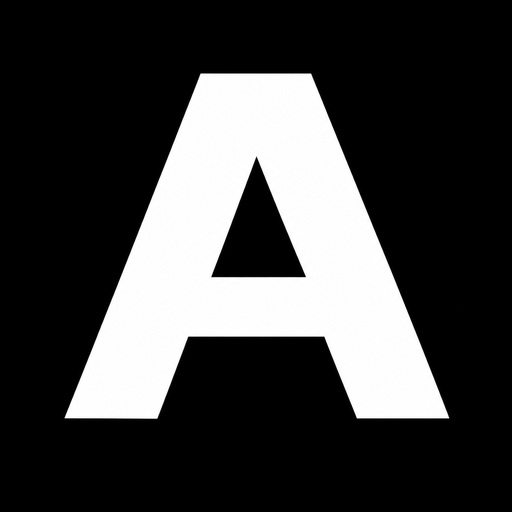
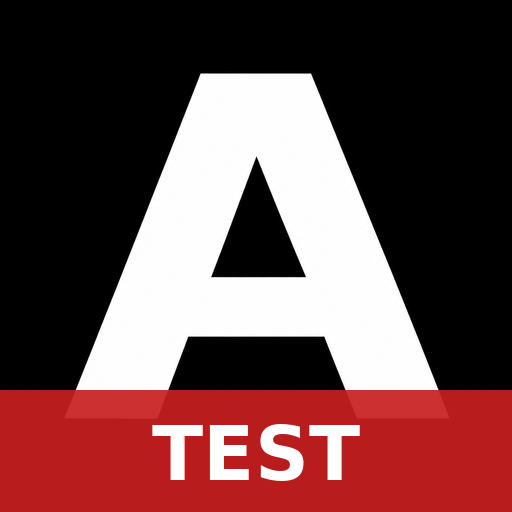
Add files via upload

Changed region(s): [[0.0, 0.75, 1.0, 1.0]]

diff --git a/index.html b/index.html
@@ -6,11 +6,11 @@
 <meta name="apple-mobile-web-app-capable" content="yes">
 <meta name="mobile-web-app-capable" content="yes">
 <meta name="apple-mobile-web-app-status-bar-style" content="black-translucent">
-<meta name="apple-mobile-web-app-title" content="Werkuren">
+<meta name="apple-mobile-web-app-title" content="Werkuren test">
 <meta name="theme-color" content="#17365d">
 <link rel="manifest" href="manifest.webmanifest">
 <link rel="apple-touch-icon" href="icon-180.png">
-<title>Werkuren</title>
+<title>Werkuren test</title>
 <style>
   :root {
     --navy: #17365d; --navy-2: #dbeafe; --green: #176b45; --bg: #f1f5f9; --card: #ffffff;
@@ -93,11 +93,17 @@ textarea{overflow:hidden}#f-clients{min-height:150px}#f-purch{min-height:84px}
 .chips button.fx{background:var(--navy);color:#fff;border-color:var(--navy)}
 .chips button.rc{border-color:var(--green);color:var(--green)}
 @media (prefers-color-scheme:dark){.chips button.fx{background:#2c5a94;border-color:#2c5a94}}
+.day.appendix{margin-left:22px;border-style:dashed}
+.day.appendix .name::before{content:"\21B3  ";color:var(--muted);font-weight:400}
+.cash{background:var(--bg);border-radius:10px;padding:12px 14px;margin-top:12px;line-height:1.45}
+.cash .main{display:flex;justify-content:space-between;align-items:baseline;gap:10px;font-size:16px;font-weight:700}
+.cash .main b{color:var(--green);font-size:21px}
+.cash .sub{font-size:13px;color:var(--muted);margin-top:3px}
 </style>
 </head>
 <body>
 <header>
-  <img src="icon-192.png" alt="" class="logo"><h1>Werkuren</h1>
+  <img src="icon-192.png" alt="" class="logo"><h1>Werkuren test</h1>
 </header>
 <main>
 
@@ -117,6 +123,7 @@ textarea{overflow:hidden}#f-clients{min-height:150px}#f-purch{min-height:84px}
       <div class="big" id="totHours">Totaal uren: 0,00</div>
       <div class="big pay" id="totPay"></div>
     </div>
+    <div id="totCash" class="cash" hidden></div>
     <div id="totMonth" style="margin-top:8px;font-weight:600"></div>
     <div class="hint" id="totBuy"></div>
     <div class="rate-row">
@@ -148,11 +155,28 @@ textarea{overflow:hidden}#f-clients{min-height:150px}#f-purch{min-height:84px}
 
 <script>
 "use strict";
-const STORE_KEY = "werkuren.v1";
-const DAY_NAMES = ["Maandag","Dinsdag","Woensdag","Donderdag","Vrijdag","Zaterdag"];
+const STORE_KEY = "werkuren-test.v1";   // eigen opslag: raakt de gewone Werkuren-app niet aan
+const DAY_NAMES = ["Maandag","Dinsdag","Woensdag","Donderdag","Vrijdag","Zaterdag","Zondag"];   // zondag = bijlage bij zaterdag
 
 /* ---------- opslag ---------- */
-let state = { records: {}, deleted: {}, rate: 13, lastExport: null };
+let state = { records: {}, deleted: {}, rate: 13, lastExport: null, deposits: {}, corrections: {} };
+/* Storting per maand en afstemmingen komen van de pc (die is de baas); de telefoon rekent er alleen mee. */
+function cleanDeposits(raw) {
+  const out = {};
+  if (raw && typeof raw === "object") Object.keys(raw).sort().forEach(k => {
+    const v = +raw[k];
+    if (/^\d{4}-(0[1-9]|1[0-2])$/.test(k) && isFinite(v) && v >= 0) out[k] = v;
+  });
+  return out;
+}
+function cleanCorrections(raw) {
+  const out = {};
+  if (raw && typeof raw === "object") Object.keys(raw).sort().forEach(k => {
+    const v = +raw[k];
+    if (/^\d{4}-\d{2}-\d{2}$/.test(k) && isFinite(v) && Math.abs(v) <= 1e6) out[k] = Number(v.toFixed(2));
+  });
+  return out;
+}
 function loadState() {
   try {
     const raw = localStorage.getItem(STORE_KEY);
@@ -160,6 +184,7 @@ function loadState() {
       const p = JSON.parse(raw);
       state.records = p.records || {};
       state.deleted = p.deleted || {};
+      state.deposits = cleanDeposits(p.deposits); state.corrections = cleanCorrections(p.corrections);
       state.pair = p.pair || ""; state.fp = p.fp || ""; state.lastPc = p.lastPc || ""; state.dirty = !!p.dirty; state.lastSent = p.lastSent || null;
       state.rate = typeof p.rate === "number" ? p.rate : 13;
       state.lastExport = p.lastExport || null;
@@ -234,14 +259,61 @@ let weekStart = mondayOf(new Date());
 let selected = iso(new Date());
 if (!isInWeek(selected)) selected = iso(weekStart);
 function isInWeek(key) {
-  for (let i = 0; i < 6; i++) if (iso(addDays(weekStart, i)) === key) return true;
+  for (let i = 0; i < 7; i++) if (iso(addDays(weekStart, i)) === key) return true;
   return false;
 }
 
 const $ = id => document.getElementById(id);
 function recOf(key) { return state.records[key] || { start: "", end: "", clients: [], purchases: [] }; }
 
-const eur = n => "€ " + nl(n);
+const eur = n => { const [a, b] = n.toFixed(2).split("."); return "€ " + a.replace(/\B(?=(\d{3})+(?!\d))/g, ".") + "," + b; };
+
+/* ---------- storting en cash: zelfde berekening als de pc-app ---------- */
+const MONTHS_NL = ["januari","februari","maart","april","mei","juni","juli","augustus","september","oktober","november","december"];
+const monthStart = (y, m) => new Date(y, m - 1, 1);
+function depositFor(y, m) {                       // eigen waarde van die maand, anders de laatste eerdere, anders 0
+  const k = y + "-" + pad(m), dep = state.deposits || {};
+  if (k in dep) return dep[k];
+  let best = null;
+  for (const x in dep) if (x < k && (best === null || x > best)) best = x;
+  return best === null ? 0 : dep[best];
+}
+function dayHours(key) { const r = state.records[key]; return r ? hoursBetween(r.start, r.end) : 0; }
+function monthEarned(y, m, upto) {                // verdiend uit uren in die maand, t/m 'upto' (Date) of de hele maand
+  let last = new Date(y, m, 0).getDate();
+  if (upto) {
+    if (upto < monthStart(y, m)) return 0;
+    if (upto.getFullYear() === y && upto.getMonth() + 1 === m) last = upto.getDate();
+  }
+  let h = 0;
+  for (let d = 1; d <= last; d++) h += dayHours(y + "-" + pad(m) + "-" + pad(d));
+  return h * state.rate;
+}
+function corrTotal(y, m, upto) {                  // afstemmingen van de pc in die maand, t/m 'upto'
+  const pre = y + "-" + pad(m) + "-", lim = upto ? iso(upto) : "9999-99-99";
+  let t = 0;
+  for (const k in state.corrections) if (k.startsWith(pre) && k <= lim) t += state.corrections[k];
+  return t;
+}
+const hasCorr = (y, m) => Object.keys(state.corrections).some(k => k.startsWith(y + "-" + pad(m) + "-"));
+function cashDueMonth(y, m, upto) {
+  if (upto && upto < monthStart(y, m)) return 0;
+  return Math.max(0, monthEarned(y, m, upto) + corrTotal(y, m, upto) - depositFor(y, m));
+}
+function monthsIn(a, b) {
+  const out = [];
+  for (let d = new Date(a); d <= b; d = addDays(d, 1)) {
+    const y = d.getFullYear(), m = d.getMonth() + 1;
+    if (!out.some(x => x[0] === y && x[1] === m)) out.push([y, m]);
+  }
+  return out;
+}
+function weekCash(a, b) {                         // cash voor de uren van a t/m b: toename van (verdiend - storting)
+  let t = 0;
+  monthsIn(a, b).forEach(([y, m]) => { t += cashDueMonth(y, m, b) - cashDueMonth(y, m, addDays(a, -1)); });
+  return Number(t.toFixed(2));
+}
+const hasCashEffect = (y, m) => depositFor(y, m) > 0 || hasCorr(y, m);
 const esc = t => String(t).replace(/[&<>"]/g, c => ({"&":"&amp;","<":"&lt;",">":"&gt;",'"':"&quot;"}[c]));
 function headHTML(i, d, rec) {
   const h = hoursBetween(rec.start, rec.end);
@@ -254,7 +326,7 @@ function headHTML(i, d, rec) {
 }
 function updateTotals() {
   let h = 0, p = 0;
-  for (let i = 0; i < 6; i++) {
+  for (let i = 0; i < 7; i++) {
     const rec = recOf(iso(addDays(weekStart, i)));
     h += hoursBetween(rec.start, rec.end);
     (rec.purchases || []).forEach(x => { p += +x.amount || 0; });
@@ -262,6 +334,16 @@ function updateTotals() {
   $("totHours").textContent = "Totaal uren: " + nl(h);
   $("totPay").textContent = "Week: " + eur(h * state.rate);
   $("totBuy").textContent = p ? "Aankopen deze week: " + eur(p) : "";
+  const we = addDays(weekStart, 6), cashMonths = monthsIn(weekStart, we).filter(([y, m]) => hasCashEffect(y, m)), box = $("totCash");
+  if (!cashMonths.length) box.hidden = true;
+  else {
+    const cashH = weekCash(weekStart, we);
+    const parts = cashMonths.map(([y, m]) => { const c = corrTotal(y, m, we);
+      return MONTHS_NL[m - 1] + ": verdiend " + eur(monthEarned(y, m, we)) + (c ? (c > 0 ? " + " : " − ") + "correctie " + eur(Math.abs(c)) : "") + " − gestort " + eur(depositFor(y, m)); });
+    box.hidden = false;
+    box.innerHTML = '<div class="main"><span>Te ontvangen deze week</span><b>' + eur(cashH + p) + '</b></div>' +
+      '<div class="sub">uren ' + eur(cashH) + ' + aankopen ' + eur(p) + '</div>' + parts.map(t => '<div class="sub">' + esc(t) + '</div>').join("");
+  }
   const ref = selected && isInWeek(selected) ? selected : iso(weekStart), pre = ref.slice(0, 7);
   let mh = 0, mp = 0, md = 0;
   for (const k in state.records) if (k.startsWith(pre)) {
@@ -270,16 +352,18 @@ function updateTotals() {
     (r.purchases || []).forEach(y => { mp += +y.amount || 0; });
   }
   const mn = new Date(+pre.slice(0, 4), +pre.slice(5, 7) - 1, 1).toLocaleString("nl-BE", { month: "long", year: "numeric" });
-  $("totMonth").innerHTML = "<b>" + mn + "</b><br>" + nl(mh) + " uur &middot; " + eur(mh * state.rate) + "<br>" + md + " dagen" + (mp ? " &middot; aankopen " + eur(mp) : "");
+  const py = +pre.slice(0, 4), pm = +pre.slice(5, 7);
+  $("totMonth").innerHTML = "<b>" + mn + "</b><br>" + nl(mh) + " uur &middot; " + eur(mh * state.rate) + "<br>" + md + " dagen" + (mp ? " &middot; aankopen " + eur(mp) : "") +
+    (hasCashEffect(py, pm) ? "<br>gestort " + eur(depositFor(py, pm)) + " &middot; cash te ontvangen " + eur(cashDueMonth(py, pm)) : "");
 }
 function render() {
-  $("weekLabel").textContent = fmt(weekStart) + "  t/m  " + fmt(addDays(weekStart, 5));
+  $("weekLabel").textContent = fmt(weekStart) + "  t/m  " + fmt(addDays(weekStart, 6));
   const wrap = $("days"); wrap.innerHTML = "";
   const todayKey = iso(new Date());
-  for (let i = 0; i < 6; i++) {
+  for (let i = 0; i < 7; i++) {
     const d = addDays(weekStart, i), key = iso(d), rec = recOf(key), open = key === selected;
     const box = document.createElement("div");
-    box.className = "day" + (open ? " open" : "") + (key === todayKey ? " today" : "");
+    box.className = "day" + (open ? " open" : "") + (key === todayKey ? " today" : "") + (i === 6 ? " appendix" : "");
     const head = document.createElement("button");
     head.className = "day-head"; head.innerHTML = headHTML(i, d, rec);
     head.addEventListener("click", () => { flush(); selected = open ? null : key; render(); });
@@ -297,6 +381,7 @@ let saveTimer = null, editorRefs = null;
 function buildEditor(key, rec) {
   const ed = document.createElement("div");
   ed.className = "editor";
+  const isSun = new Date(+key.slice(0, 4), +key.slice(5, 7) - 1, +key.slice(8, 10)).getDay() === 0;
   const clientsDraft = rec.clients_text !== undefined ? rec.clients_text
     : (rec.clients || []).map(c => (typeof c === "object" ? c.name : c)).join("\n");
   const purchasesDraft = rec.purchases_text !== undefined ? rec.purchases_text
@@ -308,6 +393,7 @@ function buildEditor(key, rec) {
       '<div><label for="f-end">Einduur</label><input id="f-end" inputmode="decimal" autocomplete="off"></div>' +
     '</div>' +
     '<div class="err" id="f-err"></div>' +
+    (isSun ? '<div class="hint">Zondag hoort bij de week van zaterdag: de uren tellen mee in het weektotaal en staan op het formulier bij zaterdag.</div>' : '') +
     '<label for="f-clients">Klanten</label>' +
     '<textarea id="f-clients" autocapitalize="words"></textarea><div class="chips" id="f-chips"></div>' +
     '<label for="f-purch">Aankopen</label>' +
@@ -440,7 +526,7 @@ function flush(rerenderHeader, forceDeleteMark) {
 /* Alleen de kopregels en totalen vernieuwen, zodat het toetsenbord open blijft. */
 function refreshHeaders() {
   const boxes = $("days").children;
-  for (let i = 0; i < 6; i++) {
+  for (let i = 0; i < 7; i++) {
     const d = addDays(weekStart, i);
     boxes[i].querySelector(".day-head").innerHTML = headHTML(i, d, recOf(iso(d)));
   }
@@ -460,7 +546,7 @@ $("thisWeek").addEventListener("click", () => {
   flush();
   weekStart = mondayOf(new Date());
   const t = iso(new Date());
-  selected = isInWeek(t) ? t : iso(weekStart);   // zondag: eerste dag van de week
+  selected = isInWeek(t) ? t : iso(weekStart);
   render();
 });
 $("rate").addEventListener("change", () => {
@@ -524,6 +610,8 @@ $("restoreFile").addEventListener("change", async e => {
         updated: d.written || new Date().toISOString() };
     });
     if (typeof d.rate === "number") state.rate = d.rate;
+    if (d.deposits && typeof d.deposits === "object") state.deposits = cleanDeposits(d.deposits);
+    if (d.corrections && typeof d.corrections === "object") state.corrections = cleanCorrections(d.corrections);
     saveState(); render(); toast(keys.length + " dag(en) hersteld.");
   } catch (err) { toast("Dit is geen geldig pc-bestand."); }
 });
@@ -622,7 +710,16 @@ function mergePc(d, force, busyKey) {
     if (!same) n++;
   }
   if (typeof d.rate === "number") state.rate = d.rate;
-  return { n, skipDel };
+  let cash = false;                                               // storting/afstemmingen: de pc is de baas
+  if (d.deposits && typeof d.deposits === "object") {
+    const nd = cleanDeposits(d.deposits);
+    if (JSON.stringify(nd) !== JSON.stringify(state.deposits)) { state.deposits = nd; cash = true; }
+  }
+  if (d.corrections && typeof d.corrections === "object") {
+    const nc = cleanCorrections(d.corrections);
+    if (JSON.stringify(nc) !== JSON.stringify(state.corrections)) { state.corrections = nc; cash = true; }
+  }
+  return { n, skipDel, cash };
 }
 /*MERGE-END*/
 let pulling = false, pullNote = "", skipDelCount = 0;
@@ -656,7 +753,8 @@ async function pullPc(force) {
     else {
       const m = mergePc(best, force, typing ? editorRefs.key : null);
       skipDelCount = m.skipDel; state.lastPc = best.written; saveState();
-      if (m.n) { if (typing) refreshHeaders(); else render(); toast(m.n + " dag(en) van de pc"); }
+      if (m.n || m.cash) { if (typing) refreshHeaders(); else render(); }
+      if (m.n) toast(m.n + " dag(en) van de pc");
       pullNote = "pc " + new Date(best.written).toLocaleTimeString("nl-BE", { hour: "2-digit", minute: "2-digit" }) +
         ": " + m.n + " bijgewerkt" + (m.skipDel ? ", " + m.skipDel + " eerder gewist" : "");
     }

diff --git a/sw.js b/sw.js
@@ -1,10 +1,10 @@
-const CACHE = "werkuren-v15";
+const CACHE = "werkuren-test-v1";
 const FILES = ["./", "./index.html", "./manifest.webmanifest", "./icon-180.png", "./icon-192.png", "./icon-512.png"];
 self.addEventListener("install", e => {
   e.waitUntil(caches.open(CACHE).then(c => c.addAll(FILES)).then(() => self.skipWaiting()));
 });
 self.addEventListener("activate", e => {
-  e.waitUntil(caches.keys().then(keys => Promise.all(keys.filter(k => k !== CACHE).map(k => caches.delete(k)))).then(() => self.clients.claim()));
+  e.waitUntil(caches.keys().then(keys => Promise.all(keys.filter(k => k.startsWith("werkuren-test-") && k !== CACHE).map(k => caches.delete(k)))).then(() => self.clients.claim()));
 });
 self.addEventListener("fetch", e => {
   if (e.request.method !== "GET") return;
